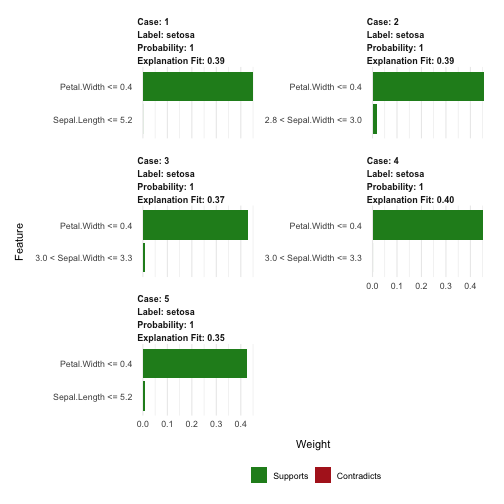
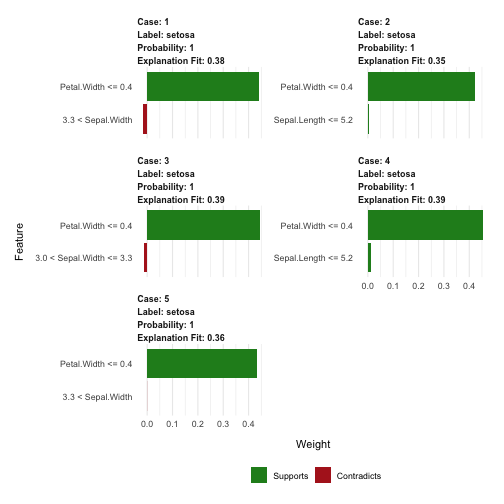
finished first section of talk

diff --git a/presentations/graphics group/An_Application_of_LIME_to_a_Random_Forest.html b/presentations/graphics group/An_Application_of_LIME_to_a_Random_Forest.html
@@ -24,11 +24,6 @@ class: center, middle, inverse, title-slide
 # Overview
 
 .pull-left[
-### Goals for the talk
-- Explain the LIME algorithm
-- Present an application of LIME
-- Highlight problems with this application
-
 ### The plan
 
 1. Explanation of LIME 
@@ -132,7 +127,7 @@ class: inverse, center, middle
  
 ---
 
-# Idea of the LIME Procedure
+# Generalized Version of the LIME Procedure
 
 Start with training data, complex model, and one prediction from the test data
 1. Use the features in the training data to create a new dataset of many perturbations.
@@ -143,7 +138,7 @@ Start with training data, complex model, and one prediction from the test data
   `$$\mbox{prediction} \sim \mbox{chosen feature 1} + \cdots + \mbox{chosen feature k}$$`
 6. Use the coefficients from the regression to "explain" the predictions.
 
-| | Feature 1 | &lt;span style="color:blue"&gt;Feature 2&lt;/span&gt; | &lt;span style="color:blue"&gt;Feature 3&lt;/span&gt; | Feature 4 | Similarity Score | Prediction |
+| | Feature 1 | &lt;span style="color:blue"&gt;Feature 2&lt;/span&gt; | &lt;span style="color:blue"&gt;Feature 3&lt;/span&gt; | Feature 4 | Similarity Score | &lt;span style="color:blue"&gt;Prediction&lt;/span&gt;|
 | --: | :--: | :--: | :--: | :--: | :--: | :--: |
 | test observation | 2 | 4 | 2 | 10 | exact | `\(\hat{y}_{\mbox{obs}}\)` |
 | perturbation 1 | 2 | 3 | 2 | 12 | very close | `\(\hat{y}_1\)` |
@@ -159,7 +154,10 @@ Start with training data, complex model, and one prediction from the test data
 - Developers created a Python package called [lime](https://github.com/marcotcr/lime)
 - Thomas Pedersen created an R package also called [lime](https://github.com/thomasp85/lime)
 
-.pull-left[
+![](./images/lime.png)
+
+### Key Functions in the lime R package
+
 
 ```r
 #install.packages("lime")
@@ -167,9 +165,7 @@ library(lime)
 ?lime
 ?explain
 ```
-]
 
-.pull-right[![](./images/lime.png)]
 ---
 
 class: inverse, center, middle
@@ -440,8 +436,8 @@ explanation[1:2, 1:6]
 
 ```
 ##       model_type case  label label_prob  model_r2 model_intercept
-## 1 classification    1 setosa          1 0.3944587       0.2470557
-## 2 classification    1 setosa          1 0.3944587       0.2470557
+## 1 classification    1 setosa          1 0.3758648       0.2529152
+## 2 classification    1 setosa          1 0.3758648       0.2529152
 ```
 
 ```r
@@ -449,9 +445,9 @@ explanation[1:2, 7:10]
 ```
 
 ```
-##   model_prediction      feature feature_value feature_weight
-## 1        0.6969047 Sepal.Length           5.1   0.0003415683
-## 2        0.6969047  Petal.Width           0.2   0.4495073822
+##   model_prediction     feature feature_value feature_weight
+## 1        0.6786081 Sepal.Width           3.5    -0.01526011
+## 2        0.6786081 Petal.Width           0.2     0.44095302
 ```
 
 ```r
@@ -459,9 +455,9 @@ explanation[1:2, 11:13]
 ```
 
 ```
-##          feature_desc               data prediction
-## 1 Sepal.Length &lt;= 5.2 5.1, 3.5, 1.4, 0.2    1, 0, 0
-## 2  Petal.Width &lt;= 0.4 5.1, 3.5, 1.4, 0.2    1, 0, 0
+##         feature_desc               data prediction
+## 1  3.3 &lt; Sepal.Width 5.1, 3.5, 1.4, 0.2    1, 0, 0
+## 2 Petal.Width &lt;= 0.4 5.1, 3.5, 1.4, 0.2    1, 0, 0
 ```
 
 ---
